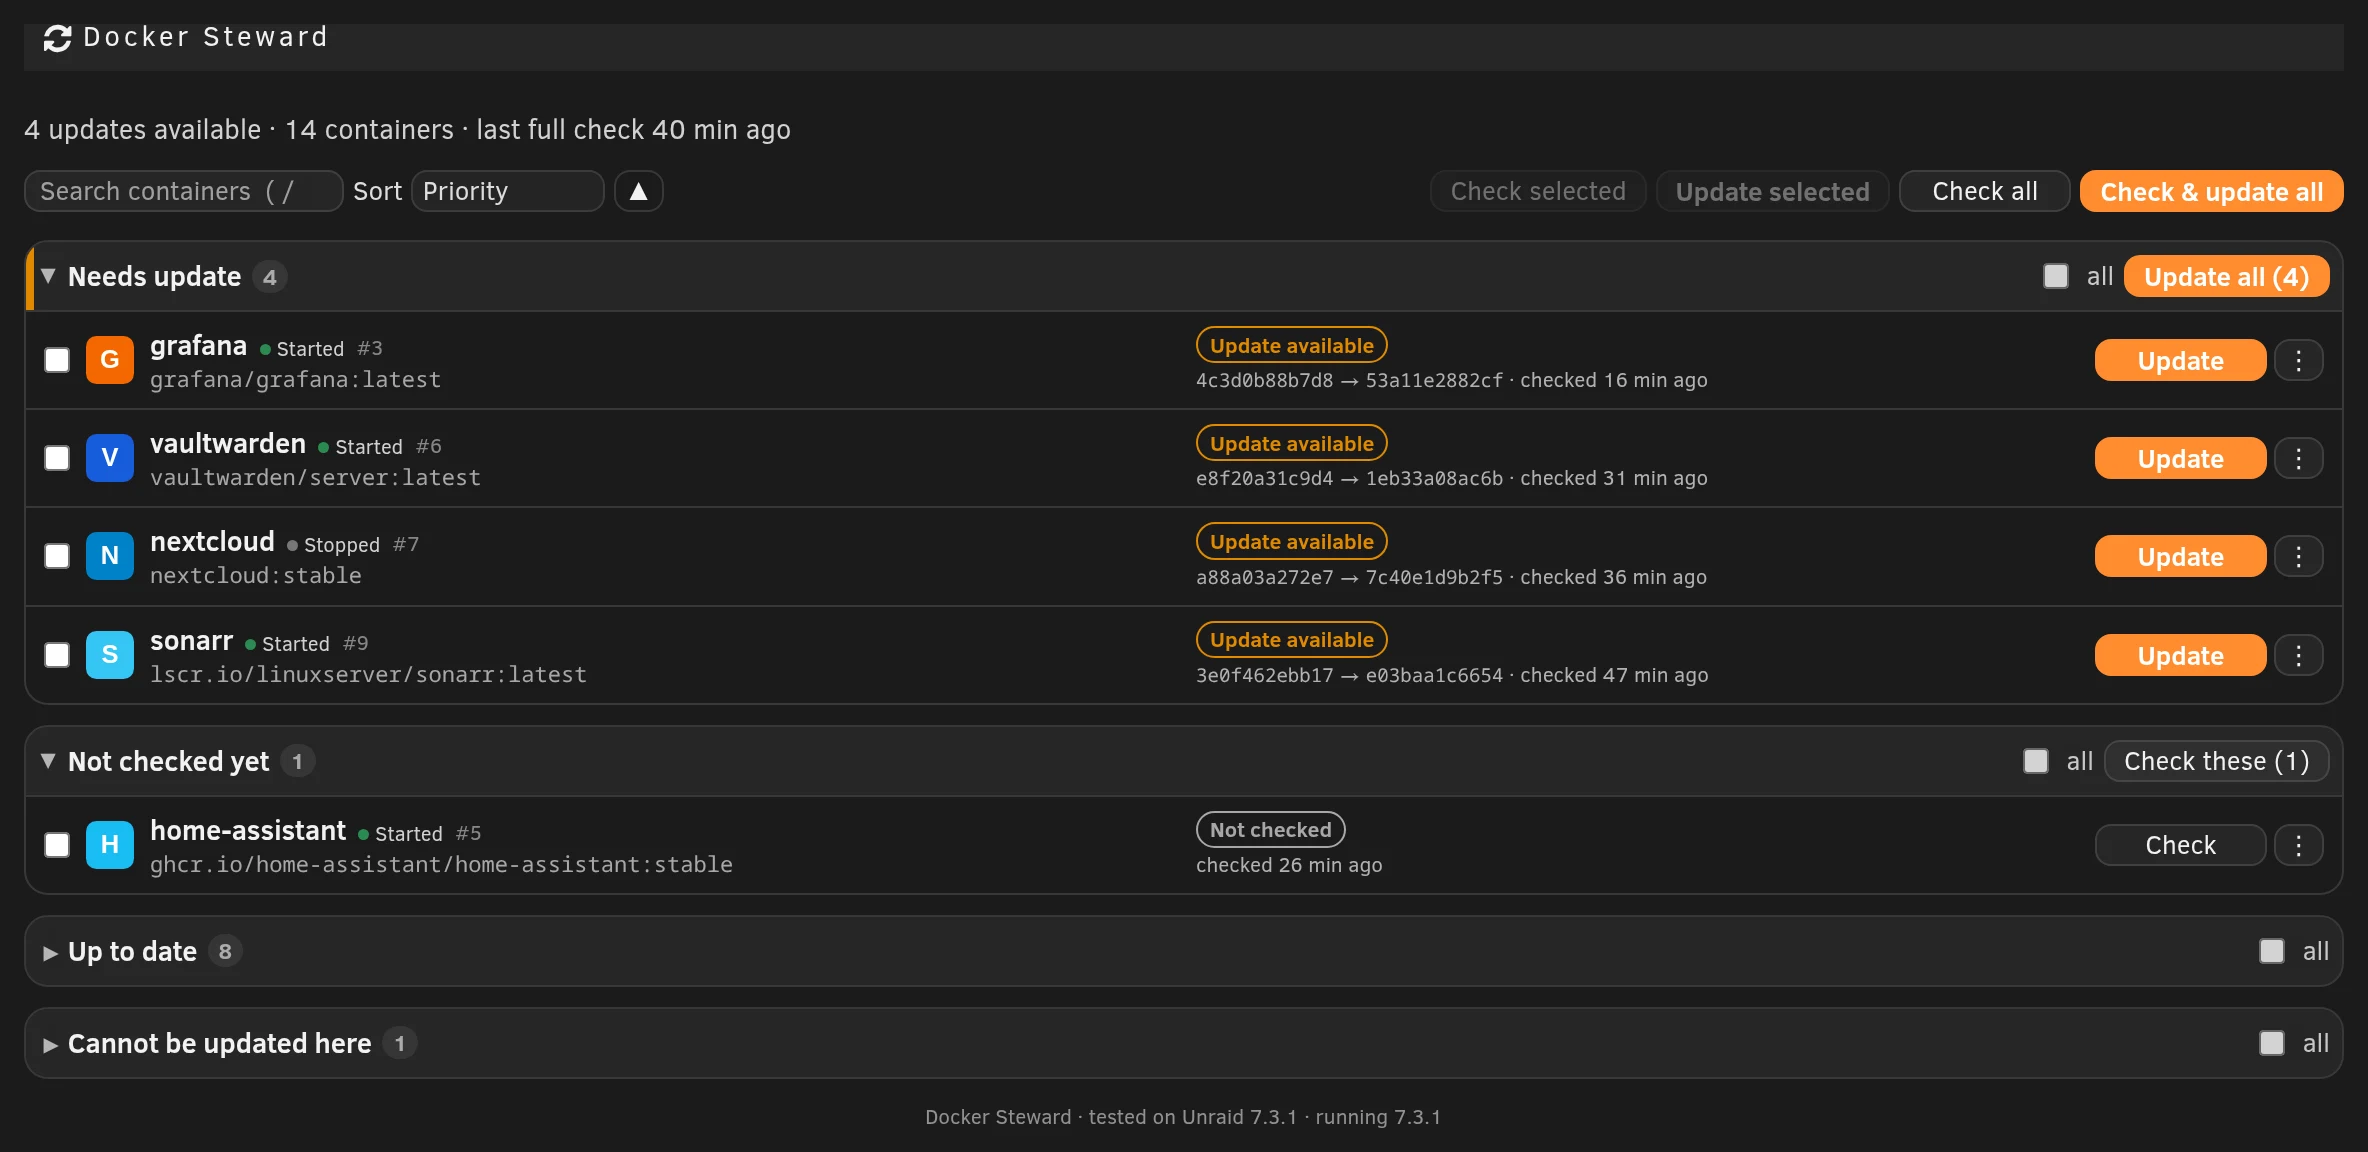
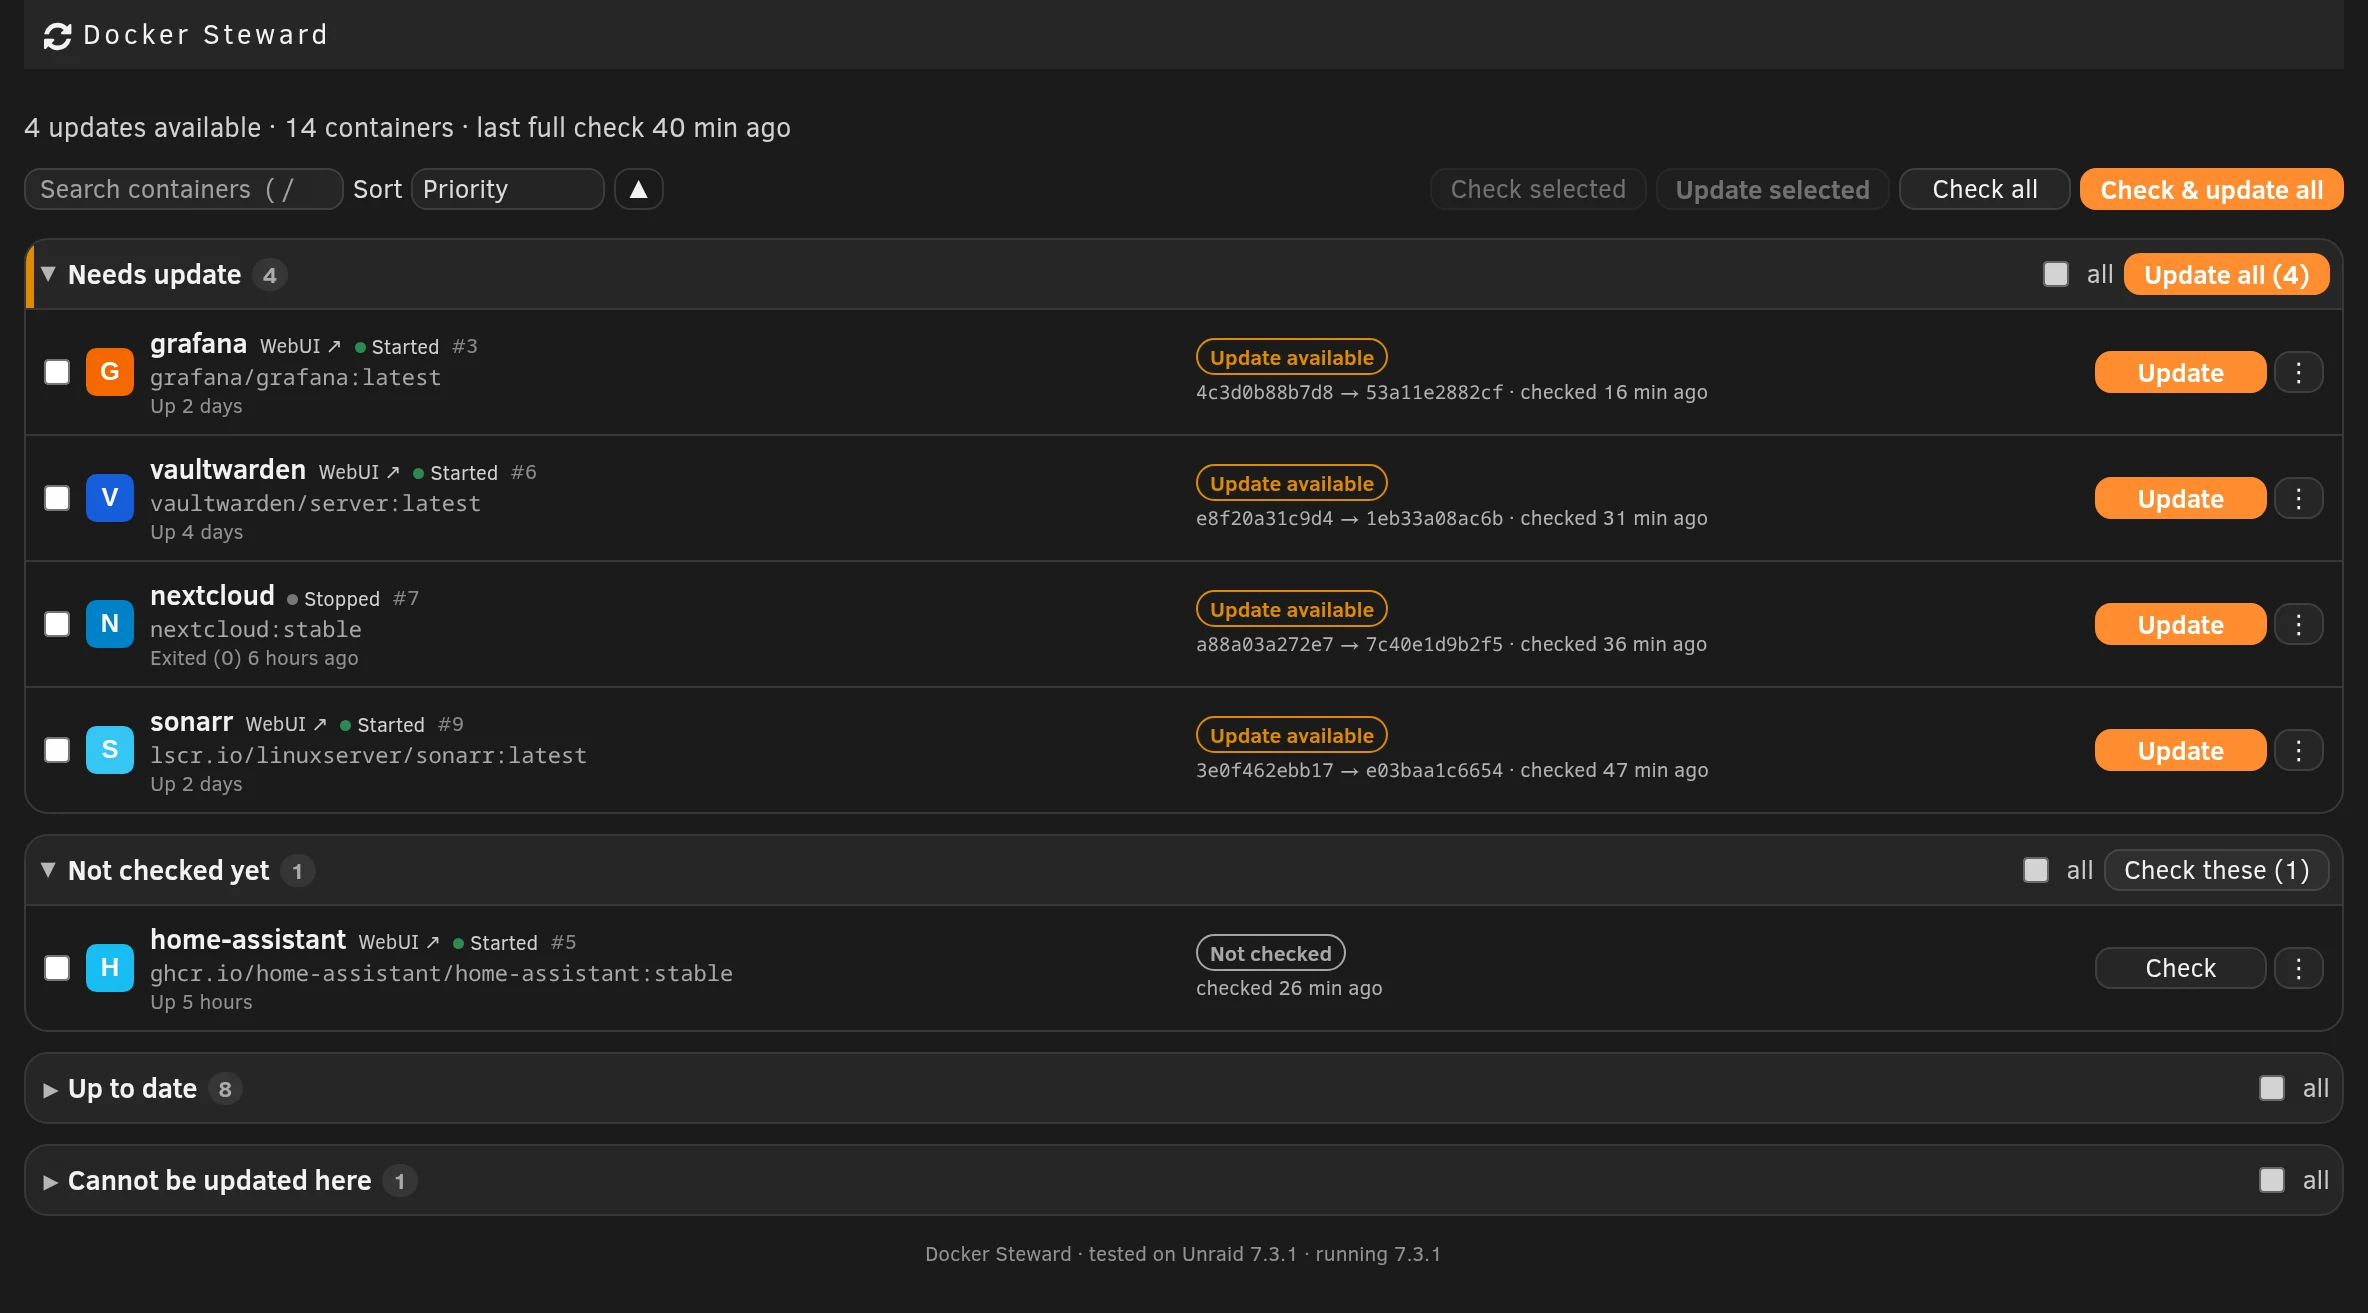
README and screenshots: container controls, WebUI, console, logs and edit

diff --git a/README.md b/README.md
@@ -5,8 +5,9 @@
   <img src="https://img.shields.io/badge/Unraid-7.0%2B-orange?style=flat-square" alt="Unraid 7.0+">
 </p>
 
-An Unraid plugin for looking after Docker containers. One page shows what needs updating and lets you check or update
-a single container, a selection, or everything, with live progress.
+An Unraid plugin for looking after Docker containers. One page lists your containers, shows what needs updating, and
+lets you check or update a single container, a selection, or everything, with live progress. Each container's menu also
+starts, stops, pauses and restarts it, opens its WebUI, console and logs, and opens Unraid's own editor.
 
 > [!WARNING]
 > Docker Steward is provided **as is, with no warranty, and you use it at your own risk**. Updating **recreates
@@ -22,7 +23,7 @@ Demo data, not a real server.
 | | |
 |---|---|
 | ![Row menu](docs/screenshots/row-menu.webp) | ![Selecting containers for a bulk action](docs/screenshots/selection.webp) |
-| **Row menu:** check, check and update now, force update | **Selection:** bulk Check, Update and Check & update |
+| **Row menu:** start, stop, pause, restart, WebUI, console, logs, edit, and update actions | **Selection:** bulk Check, Update and Check & update |
 | ![Update in progress](docs/screenshots/progress.webp) | ![Live update output](docs/screenshots/progress-popup.webp) |
 | **Progress:** runs continue in the background | **Live output** from Unraid's update script |
 
@@ -34,9 +35,13 @@ On a phone:
 
 ## Features
 
-- **Per-container actions:** Check, Update and Re-check on every row, plus a menu with Check and update now and
+- **Per-container update actions:** Check, Update and Re-check on every row, plus a menu with Check and update now and
   Force update (re-pull).
-- **Container controls:** Start, Stop, Pause, Resume and Restart, plus WebUI, Console and Logs, from each row's menu, with the uptime shown on the row. These use Unraid's own Docker functions, the same ones the Docker page calls. **Edit** opens Unraid's own container editor; Docker Steward never reads or writes container templates.
+- **Container controls:** Start, Stop, Pause, Resume and Restart from each row's menu, with the container's uptime and a
+  WebUI link on the row. These go through Unraid's own Docker functions, the same ones the Docker page calls, and are
+  switched off while an update run is in progress.
+- **WebUI, Console and Logs:** open the container's web interface and Unraid's own console and log windows.
+- **Edit:** opens Unraid's own container editor. Docker Steward never reads or writes container templates.
 - **Bulk actions:** Check selected, Update selected, Check all and Check & update. Updates run in your Docker page
   priority order, after a confirmation.
 - **Grouped by what needs doing:** Needs update, Not checked yet, Up to date, Cannot be updated here. Search and sort.
@@ -46,7 +51,8 @@ On a phone:
   versions each release was tested on.
 - **Command line:** `docker-steward-check <name> [--json]` and `docker-steward-selftest`.
 
-No Unraid file is modified. It uses Unraid's own update check and the same update script as the Docker page.
+No Unraid file is modified. It uses Unraid's own update check, update script and container controls, the same ones the
+Docker page uses.
 
 ## Install
 
@@ -77,6 +83,8 @@ the full legal text. In plain terms:
 - **You use it entirely at your own risk.** The author and contributors accept no responsibility or liability for
   stopped or broken containers, lost data, failed or partial updates, downtime, security incidents, or any other
   damage from using or misusing it.
+- **Controls change your containers.** Stop, Pause and Restart interrupt the service a container provides, and a
+  stopped container stays stopped until you start it.
 - **Updating changes your containers.** An update pulls a new image, then stops, removes and recreates the container.
   A new image version can break an application or its data. Keep backups and know how to roll back.
 - **It runs with full administrator rights** inside the Unraid web interface. Only install software you trust.
